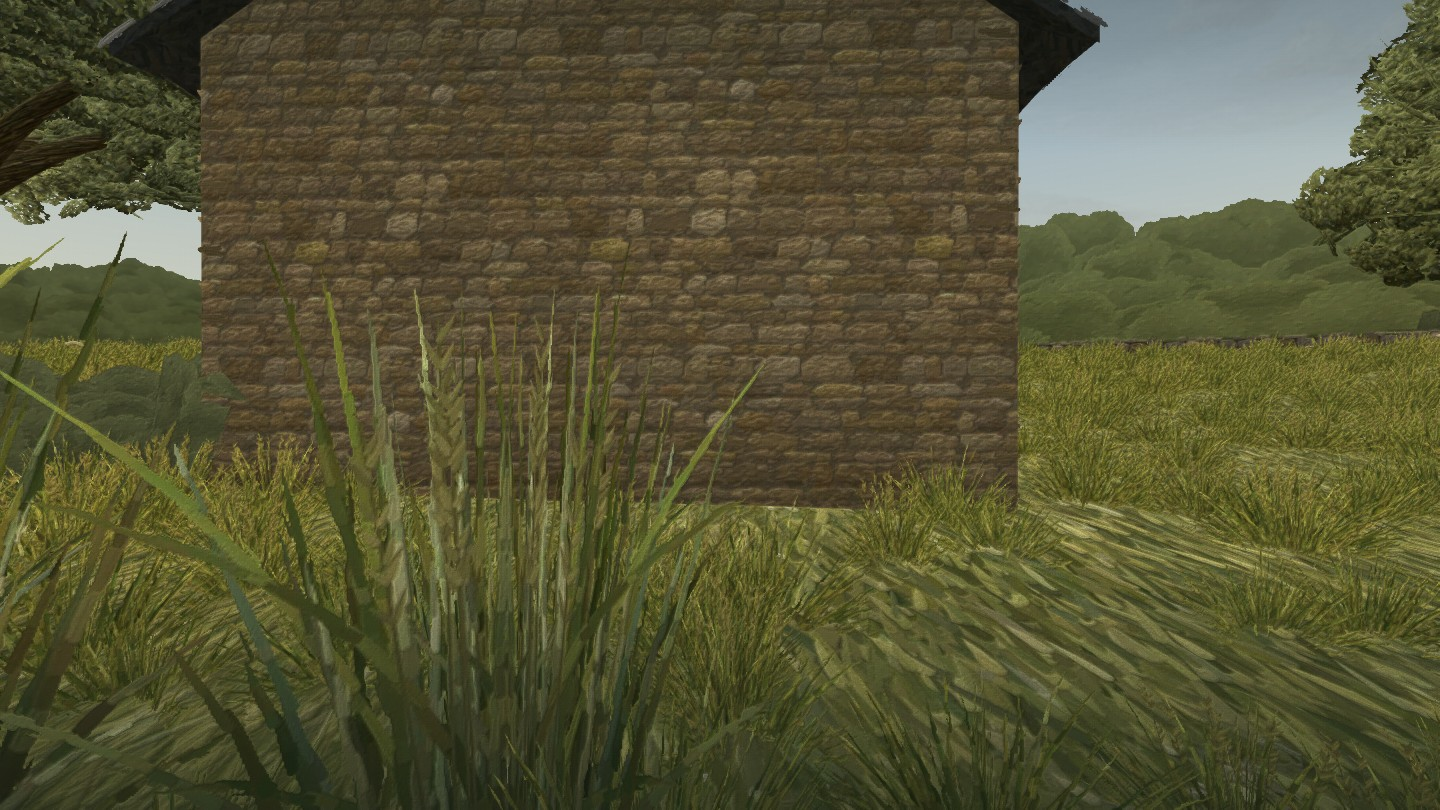
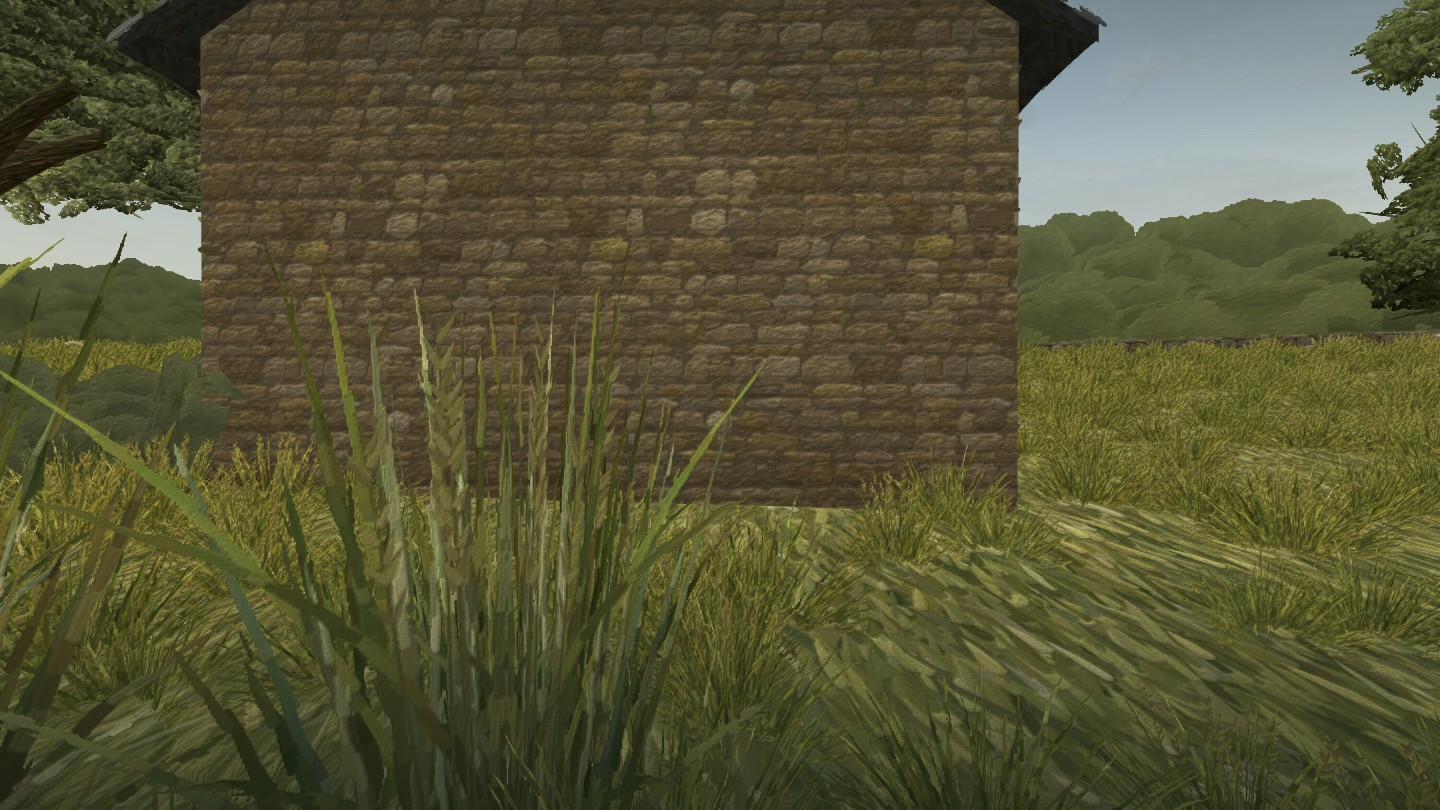
Keep the comparison as JPEG, regenerate the review pack, and keep only the pack's named frames

Changed region(s): [[0.9062, 0.0, 1.0, 0.4012], [0.0625, 0.0309, 0.0938, 0.0617]]

diff --git a/docs/space-validation/README.md b/docs/space-validation/README.md
@@ -8,9 +8,9 @@ The yard drawn from painted geometry: ground, lake, drystone wall, the stone cab
 
 ## The review pack
 
-All captures are 1440 × 810, device pixel ratio 1, taken by `scripts/capture-space-review.mjs` with the view locked on a tier (`?tier=`, honoured only with `check`) and the interface hidden. They are saved as JPEG at quality 90 so the pack stays small (6.2 MB for 23 frames); the comparison image is PNG (8.5 MB).
+All captures are 1440 × 810, device pixel ratio 1, taken by `scripts/capture-space-review.mjs` with the view locked on a tier (`?tier=`, honoured only with `check`) and the interface hidden. They are saved as JPEG at quality 90 so the pack stays small (6.2 MB for 23 frames); the comparison image is a JPEG at the same quality.
 
-- [arrival-vs-painting.png](arrival-vs-painting.png): the painting, the arrival capture at the same height, and the two laid over each other at half strength (`--compare`).
+- [arrival-vs-painting.jpg](arrival-vs-painting.jpg): the painting, the arrival capture at the same height, and the two laid over each other at half strength (`--compare`).
 - By day on `full` and on `plain`, the eight named poses: `arrival`, `cabin-front` (2.5 m from the door), `cabin-back`, `gable-north`, `gable-south`, `shore`, `woods`, `canopy` (under the oak, looking up). In [review/](review/) as `<pose>-day-full.jpg` and `<pose>-day-plain.jpg`.
 - The arrival pose at dawn, day, dusk, night and rain on `full`: `arrival-<study>-full.jpg`.
 - The three views where the woods meet the water, the weakest corners, by day on `full`: `woods-end-northwest` (from [-11, 20], looking south), `woods-end-north-gable` (from [16, 16], looking east past the cabin's north gable), `woods-end-northeast` (from [20, 12], into the north-east corner).
@@ -26,7 +26,7 @@ SKY_PREVIEW_URL=http://127.0.0.1:4190 node scripts/capture-space-review.mjs --co
 
 ## Matching the arrival view
 
-Judged by eye against `public/assets/lakeside-day.png` with the overlay. The oak's trunk frames the left and its canopy now runs across the top from the trunk to past the middle, where the painting's foliage is fullest (two short low limbs were added, to the north-east and east; the canopy has 29 clumps). The cabin's face, roof line, door and two windows sit where the painting has them, a little larger; the chimney is now on the far (north) gable as in the painting. The path leads to the door, the shore curves away to the right, and the hills sit behind. A grove of six tall trees just beyond the east wall now rises behind and to the left of the cabin, where the painting has its dense band of trees. The eaves have their own dark soffits and boards, so no slate joint shows from below, and the eave line dips and lifts along its length. The nearest far ridge rolls more and its mist lies in separate banks rather than one pale stripe. The lake sits higher in the frame than in the painting (accepted).
+Judged by eye against `public/assets/lakeside-day.png` with the overlay. The oak's trunk frames the left and its canopy now runs across the top from the trunk to past the middle, where the painting's foliage is fullest (two short low limbs were added, to the north-east and east; the canopy has 29 clumps). The cabin's face, roof line, door and two windows sit where the painting has them, a little larger; the chimney is now on the far (north) gable as in the painting. The path leads to the door, the shore curves away to the right, and the hills sit behind. A grove of eight tall trees beyond the east wall, in loose uneven rows with the back ones standing into the woods, now rises behind and to the left of the cabin, where the painting has its dense band of trees. The eaves have their own dark soffits and boards, so no slate joint shows from below, and the eave line dips and lifts along its length. The nearest far ridge rolls more and its mist lies in separate banks rather than one pale stripe. The lake sits higher in the frame than in the painting (accepted).
 
 ## Automated evidence
 
@@ -44,7 +44,7 @@ Judged by eye against `public/assets/lakeside-day.png` with the overlay. The oak
 10. Each of `?tier=full`, `light`, `plain` draws a non-blank frame and reports that tier in `window.__space.tier`.
 11. Frame rate per tier (recorded, not asserted): see below.
 12. After resizing to 390 × 844 and back to 1280 × 720, the centre pixel differs from a corner pixel and the canvas backing size is the viewport times the pixel ratio.
-13. Under the night study, the middle of the front-left window, projected from the dressing data, has luminance below 0.25 (the stone wall beside it is recorded for comparison).
+13. Under the night study, the middle of the front-left window, projected from the dressing data, has luminance below 0.25 and is darker than the stone wall beside it; under the day study the same point stays below 0.25 while the wall is clearly lighter, so the sample is on the glass.
 14. Without WebGL2 the 2D view is shown.
 15. Losing the WebGL context returns to the 2D view within 2 s.
 16. At 390 × 844 the vertical field of view is at most 75° and the frame is drawn.
@@ -58,11 +58,11 @@ At the arrival pose under the day study, 1440 × 810, pixel ratio 1, on the Appl
 
 | Tier | rAF callbacks per second | Synchronous frame (median of 20) | Triangles | Draw calls |
 |---|---|---|---|---|
-| full | 60 | 11.0 ms | 327,026 | 28 |
-| light | 60 | 8.4 ms | 327,026 | 28 |
-| plain | 60 | 5.3 ms | 327,026 | 28 |
+| full | 60 | 10.7 ms | 327,968 | 28 |
+| light | 60 | 8.7 ms | 327,968 | 28 |
+| plain | 60 | 7.2 ms | 327,968 | 28 |
 
-The callback count is capped by the display (about 60 per second), so it says only that every tier keeps up here. The synchronous time is one frame drawn and then read back so the GPU has finished; it is the better measure of headroom. It varies by a few milliseconds between runs (an earlier run the same evening gave 11.6, 7.7 and 8.3 ms). Triangles and draw calls are the scene alone (`renderer.info.render` after a plain scene render); the pass adds a few full-screen draws. The app itself draws at most 30 frames per second.
+The callback count is capped by the display (about 60 per second), so it says only that every tier keeps up here. The synchronous time is one frame drawn and then read back so the GPU has finished; it is the better measure of headroom. It varies by a few milliseconds between runs (earlier runs the same evening gave 11.6, 7.7 and 8.3 ms, and 11.0, 8.4 and 5.3 ms). Triangles and draw calls are the scene alone (`renderer.info.render` after a plain scene render); the pass adds a few full-screen draws. The app itself draws at most 30 frames per second.
 
 ## What was not measured
 
@@ -77,9 +77,9 @@ Slot by slot:
 - **Woods (parked for the owner).** Where the woods end near the water they step down as steep, terraced masses with near-vertical end faces: plain in `woods-end-northwest` (the bluff on the right), `woods-end-north-gable` (left of the grove) and `woods-end-northeast` (left). Five rounds did not converge; the owner decides whether to spend more here or use a generated plate.
 - **Woods (parked, minor).** A faint pale fringe along the woods' top edge, visible at 1:1 against the sky.
 - **Woods crowns under the pass.** On `full` the bristle pass leaves a felt-like fuzz on the woods' rounded crowns (`woods-day-full`, `gable-south-day-full`); the band reads as soft domes of moss more than as trees.
-- **Grove.** The new grove reads well from the arrival pose, but close up (`woods-end-north-gable`, `woods-end-northeast`) its trees stand in a line on bare, thin trunks, a little like a park planting; the undergrowth at their feet is mostly hidden by the wall.
+- **Grove.** From inside the yard (`woods-end-north-gable`, `woods-end-northeast`) the grove now reads as a dense copse with crowns hanging low over the wall and only short lengths of trunk showing, but it still stands as its own clump in front of where the woods band steps down, with sky between them, and its crowns are a little darker and crisper than the band's soft domes.
 - **Oak.** The crown is full from the arrival pose, but from beneath (`canopy`) the limbs meet the trunk as tubes from one ring and the bark is coarse streaks. At night the oak's leaves stay noticeably light against the dark sky (`arrival-night-full`).
-- **Cabin.** The eave is now a dark brushed band without plank joints, but seen from right under the gable (`woods-end-northeast`) the verge soffit is a large dark plane. The shrubs at the cabin's foot are cut from the woods cells and show straight card edges at the gable ends (`gable-north`).
+- **Cabin.** The eave is now a dark brushed band without plank joints, but seen from right under the gable (`woods-end-northeast`) the verge's underside is still a large dark brushed plane, though lighter than the eaves'. The shrubs at the cabin's foot are cut from the woods cells and show straight card edges at the gable ends (`gable-north`).
 - **Ground cover.** The foreground grass is shorter and tamer than the painting's knee-high verge (kept low so the path and the cabin's foot stay in view), and the flower heads are flat close up. The meadow texture smears into streaks at grazing angles (`gable-south`, `cabin-back`).
 - **Lake.** Paler and flatter than the painting's: a pale grey-blue with fine regular ripple lines, no reflected hills or sky.
 - **Hills.** The nearest ridge now rolls, but the far ridges are still pale, smooth and alike; the mist is sparse compared with the painting's valley drifts. Under rain the ridges stay greener than the grey sky.

diff --git a/README.md b/README.md
@@ -207,7 +207,7 @@ The yard is built to look painted: ground, lake, drystone wall, the stone cabin 
 
 Without WebGL2, if any file of the art bundle is missing or broken, or if the 3D context is lost, the page returns to the painting.
 
-**Tiers.** The view starts on `full` (the painterly pass at full resolution). After a short settling time it measures frame intervals; if their median is slower than 24 fps it steps down to `light` (the pass at 0.6 of the resolution) and measures again, then to `plain` (no pass, the scene drawn straight to the screen). It only ever steps down, and locks once a tier holds. For captures and checks, `?space=1&check&tier=full|light|plain` starts locked on a tier.
+**Tiers.** The view starts on `full` (the painterly pass at full resolution). After a short settling time it measures frame intervals (an interval over 2 seconds is a stall or a hidden tab and is set aside, though a run of more than eight in a row counts as a very slow device); if their median is slower than 24 fps it steps down to `light` (the pass at 0.6 of the resolution) and measures again, then to `plain` (no pass, the scene drawn straight to the screen). It only ever steps down, and locks once a tier holds. For captures and checks, `?space=1&check&tier=full|light|plain` starts locked on a tier.
 
 **The art bundle.** `public/assets/lakeside-space-v1/` holds twelve WebP files at quality 0.9 (about 1.8 MB; the budget is 4 MB) described by `export.json`: nine surfaces, the door and window panels, and one atlas of cards (oak sprays, woods, dabs, grass, reeds, flowers). Every slot is painted in code from fixed seeds by `scripts/space-painter/`, so two exports on one machine are identical. Re-export with `node scripts/prepare-space-assets.mjs` (`--only slot,slot` for some slots); it also writes the contact sheet `docs/space-validation/art-sheet.png`. To supply a generated plate instead, save it as a PNG at `artwork/lakeside-space-v1/plates/<slot>.png` with that slot's dimensions and alpha convention (see `artwork/lakeside-space-v1/plates/README.md` and [ARTWORK.md](ARTWORK.md)), then re-export; plates are never overwritten. No slot uses a plate yet.
 
